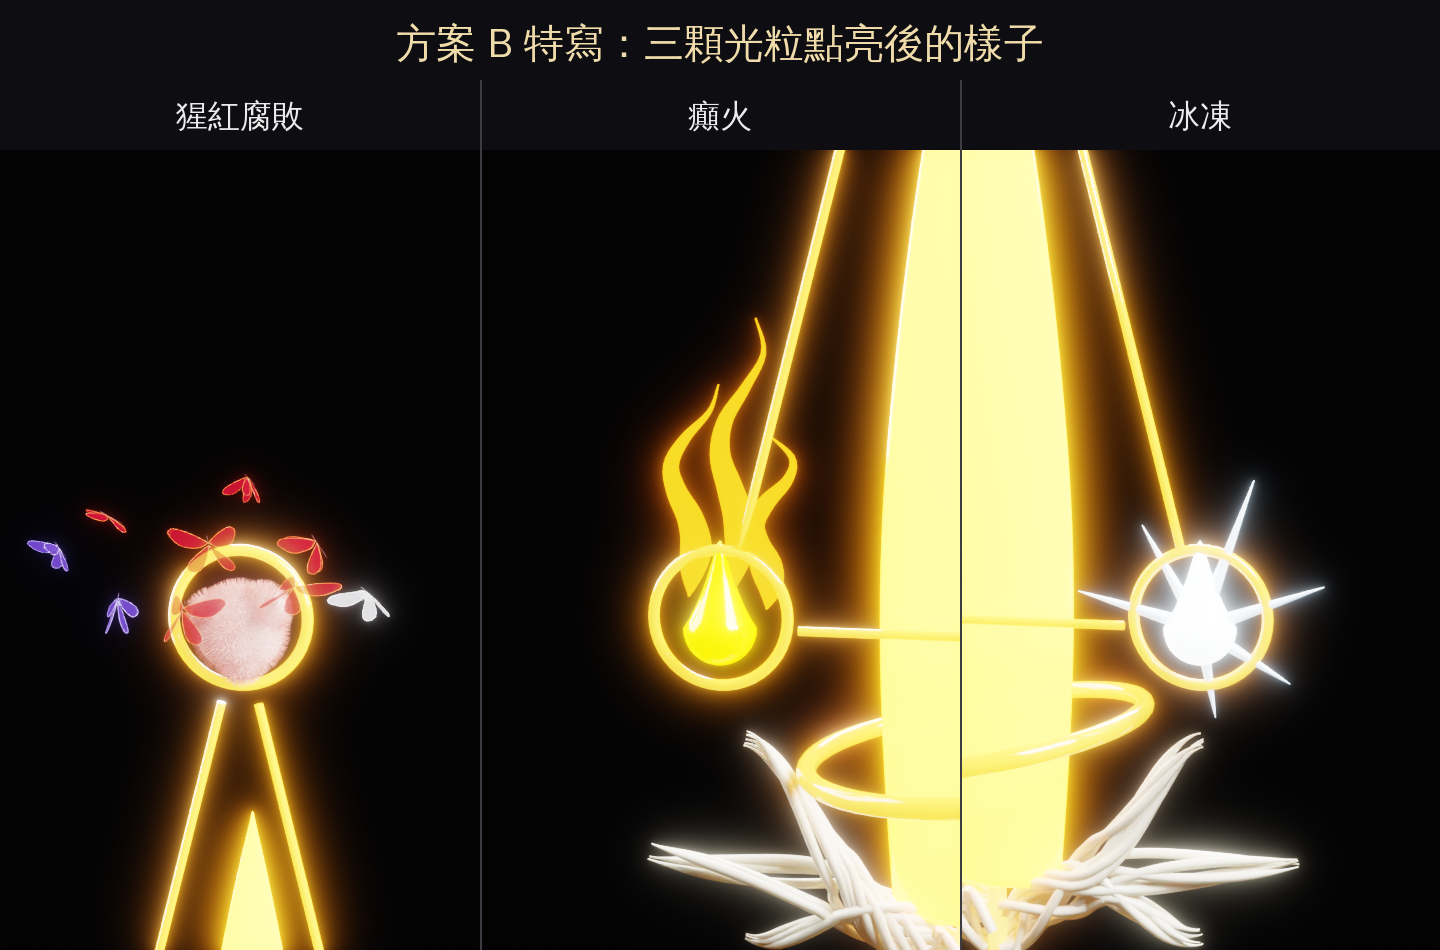
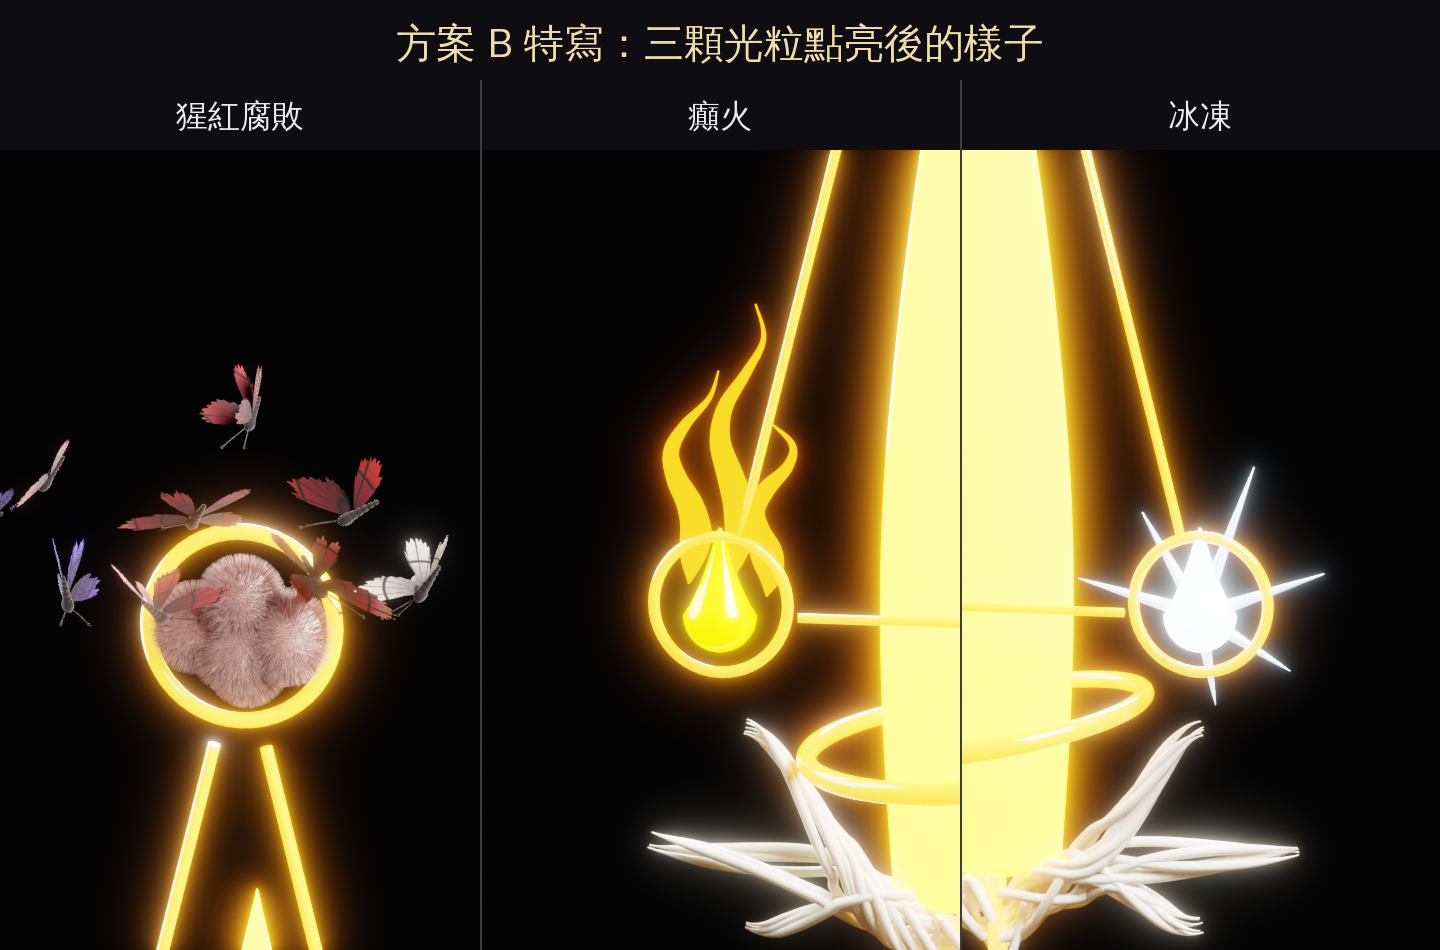
Insect glaive rot mote: realistic mould cluster with dense fuzz and real-looking rot butterflies
Claude-Session: https://claude.ai/code/session_01V7beVj5sW76yDfxRJh6Mw7

diff --git a/mods/miquella/prototypes/scripts/status_fx.py b/mods/miquella/prototypes/scripts/status_fx.py
@@ -115,8 +115,8 @@ def mould_material():
     bsdf.inputs["Sheen Roughness"].default_value = 0.3
     bsdf.inputs["Sheen Tint"].default_value = c.hex_to_linear("#FFE3E0")
     bsdf.inputs["Subsurface Weight"].default_value = 0.3
-    bsdf.inputs["Emission Color"].default_value = c.hex_to_linear("#FF3048")
-    bsdf.inputs["Emission Strength"].default_value = 0.25
+    # Realistic, not glowing (user's call): the texture matters more than the light here.
+    bsdf.inputs["Emission Strength"].default_value = 0.0
     noise = nodes.new("ShaderNodeTexNoise")
     noise.inputs["Scale"].default_value = 90.0
     noise.inputs["Detail"].default_value = 10.0
@@ -147,11 +147,40 @@ def mould_material():
     return mat
 
 
+def fuzz_material():
+    """The mould's fuzz: pale pink, whitening toward the tips."""
+    mat = bpy.data.materials.new("FX_mould_fuzz")
+    mat.use_nodes = True
+    nodes, links = mat.node_tree.nodes, mat.node_tree.links
+    bsdf = nodes["Principled BSDF"]
+    bsdf.inputs["Roughness"].default_value = 0.7
+    bsdf.inputs["Subsurface Weight"].default_value = 0.4
+    info = nodes.new("ShaderNodeHairInfo")
+    ramp = nodes.new("ShaderNodeValToRGB")
+    ramp.color_ramp.elements[0].color = c.hex_to_linear("#B8706A")
+    ramp.color_ramp.elements[1].color = c.hex_to_linear("#F2CFC8")
+    links.new(info.outputs["Intercept"], ramp.inputs["Fac"])
+    # Some strands brown and dead, in patches.
+    pick = nodes.new("ShaderNodeValToRGB")
+    pick.color_ramp.elements[0].position = 0.78
+    pick.color_ramp.elements[1].position = 0.8
+    links.new(info.outputs["Random"], pick.inputs["Fac"])
+    mix = nodes.new("ShaderNodeMix")
+    mix.data_type = "RGBA"
+    mix.inputs["B"].default_value = c.hex_to_linear("#5A2E26")
+    links.new(pick.outputs["Color"], mix.inputs["Factor"])
+    links.new(ramp.outputs["Color"], mix.inputs["A"])
+    links.new(mix.outputs["Result"], bsdf.inputs["Base Color"])
+    return mat
+
+
 def mould_ball(name, center, radius, mat):
-    """A lumpy ball: one main sphere with a few smaller ones grown onto it, all roughened."""
+    """A cluster of mouldy balls (like the rot-cure moss balls), each lumpy and fuzzy."""
     center = Vector(center)
     objs = []
-    lumps = [(V(0, 0, 0), 1.0), (V(0.55, -0.2, 0.45), 0.55), (V(-0.6, -0.15, 0.3), 0.5), (V(0.1, -0.3, -0.62), 0.48)]
+    lumps = [(V(0, 0, 0), 0.68), (V(0.78, -0.1, 0.12), 0.58), (V(-0.72, -0.05, 0.22), 0.56),
+             (V(0.08, -0.3, 0.72), 0.52), (V(0.05, 0.35, -0.45), 0.5)]
+    fuzz_mat = fuzz_material()
     tex = bpy.data.textures.new(f"{name}_Lumps", "CLOUDS")
     tex.noise_scale = 0.25
     for k, (off, scale) in enumerate(lumps):
@@ -164,15 +193,17 @@ def mould_ball(name, center, radius, mat):
         disp.strength = radius * 0.18
         disp.mid_level = 0.5
         ball.data.materials.append(mat)
+        ball.data.materials.append(fuzz_mat)
         bpy.ops.object.shade_smooth()
-        # Short fuzz all over, like mould.
+        # Dense fuzz all over, like mould.
         fuzz = ball.modifiers.new("fuzz", "PARTICLE_SYSTEM").particle_system.settings
         fuzz.type = "HAIR"
-        fuzz.count = int(3000 * scale)
-        fuzz.hair_length = radius * 0.16
+        fuzz.count = int(9000 * scale)
+        fuzz.hair_length = radius * 0.22
         fuzz.root_radius = 1.0
-        fuzz.tip_radius = 0.1
-        fuzz.radius_scale = radius * 0.012
+        fuzz.tip_radius = 0.05
+        fuzz.radius_scale = radius * 0.008
+        fuzz.material = 2
         fuzz.use_rotations = True
         fuzz.rotation_factor_random = 0.6
         objs.append(ball)
@@ -183,73 +214,175 @@ BUTTERFLY_FORE = [(0.0, 0.004), (0.03, 0.03), (0.07, 0.06), (0.11, 0.08), (0.13,
                   (0.1, 0.012), (0.07, -0.004), (0.03, -0.01)]
 BUTTERFLY_HIND = [(0.0, -0.006), (0.04, -0.03), (0.08, -0.06), (0.09, -0.085), (0.07, -0.1),
                   (0.04, -0.09), (0.015, -0.05)]
-BUTTERFLY_COLOURS = {"scarlet": ("#C8102E", "#FF6A2A"), "violet": ("#5A3CC8", "#B49CFF"),
-                     "white": ("#F2EEF8", "#FFFFFF")}
+# root (near the body), middle, outer, decayed edge band, vein colour
+BUTTERFLY_COLOURS = {
+    "scarlet": ("#120203", "#4E060E", "#9E1A12", "#C9786A", "#0A0202"),
+    "violet": ("#08040E", "#241448", "#4A3C9E", "#A898CC", "#050309"),
+    "white": ("#2A2424", "#9A948E", "#D8D2CA", "#E6E0D8", "#2A2222"),
+}
 
 
-def butterfly_materials():
-    """Wings dark and see-through toward the root, glowing toward the edge (like the rot
-    butterflies around Malenia's wings), with a brighter rim line."""
-    mats = {}
-    for key, (wing, edge) in BUTTERFLY_COLOURS.items():
-        w = bpy.data.materials.new(f"Fly_{key}")
-        w.use_nodes = True
-        nodes, links = w.node_tree.nodes, w.node_tree.links
-        for nd in list(nodes):
-            nodes.remove(nd)
-        out = nodes.new("ShaderNodeOutputMaterial")
-        mix = nodes.new("ShaderNodeMixShader")
-        mix.inputs["Fac"].default_value = 0.85
-        transparent = nodes.new("ShaderNodeBsdfTransparent")
-        emission = nodes.new("ShaderNodeEmission")
-        emission.inputs["Strength"].default_value = 1.4
-        coords = nodes.new("ShaderNodeTexCoord")
-        gradient = nodes.new("ShaderNodeTexGradient")
-        gradient.gradient_type = "SPHERICAL"
-        mapping = nodes.new("ShaderNodeMapping")
-        mapping.inputs["Scale"].default_value = (60, 60, 60)      # object space: wing ~1/60 m
-        ramp = nodes.new("ShaderNodeValToRGB")
-        ramp.color_ramp.elements[0].position = 0.0
-        ramp.color_ramp.elements[0].color = c.hex_to_linear(edge)
-        ramp.color_ramp.elements[1].position = 0.7
-        ramp.color_ramp.elements[1].color = c.hex_to_linear(wing)
-        links.new(coords.outputs["Object"], mapping.inputs["Vector"])
-        links.new(mapping.outputs["Vector"], gradient.inputs["Vector"])
-        links.new(gradient.outputs["Fac"], ramp.inputs["Fac"])
-        links.new(ramp.outputs["Color"], emission.inputs["Color"])
-        links.new(transparent.outputs["BSDF"], mix.inputs[1])
-        links.new(emission.outputs["Emission"], mix.inputs[2])
-        links.new(mix.outputs["Shader"], out.inputs["Surface"])
-        e = c.make_material(f"Fly_{key}_Edge", edge, roughness=0.3, emission=edge, strength=2.5)
-        body = c.make_material(f"Fly_{key}_Body", "#2A1014", roughness=0.6, emission=wing, strength=0.3)
-        mats[key] = (w, e, body)
-    return mats
+def wing_material(key, span):
+    """Real butterfly wing, not a sheet of light: dark at the body, scarlet outward, a pale
+    decayed band at the edge, dark veins radiating from the body and cross veins, mottled
+    dusty scales, a little translucency. Object space: the body is at the origin and the
+    wings lie roughly in the XY plane; `span` is the wing length."""
+    root, mid, outer, edge, vein = BUTTERFLY_COLOURS[key]
+    mat = bpy.data.materials.new(f"Wing_{key}")
+    mat.use_nodes = True
+    nodes, links = mat.node_tree.nodes, mat.node_tree.links
+    bsdf = nodes["Principled BSDF"]
+    bsdf.inputs["Roughness"].default_value = 0.8
+    bsdf.inputs["Sheen Weight"].default_value = 0.15         # a little dust on the scales
+    bsdf.inputs["Specular IOR Level"].default_value = 0.2
+    coords = nodes.new("ShaderNodeTexCoord")
+    xy = nodes.new("ShaderNodeVectorMath")
+    xy.operation = "MULTIPLY"
+    xy.inputs[1].default_value = (1 / span, 1 / span, 0)
+    links.new(coords.outputs["Object"], xy.inputs[0])
+    dist = nodes.new("ShaderNodeVectorMath")
+    dist.operation = "LENGTH"
+    links.new(xy.outputs["Vector"], dist.inputs[0])
+    # Mottling: shift the distance a little with noise so the bands are not clean.
+    noise = nodes.new("ShaderNodeTexNoise")
+    noise.inputs["Scale"].default_value = 18.0
+    noise.inputs["Detail"].default_value = 6.0
+    links.new(xy.outputs["Vector"], noise.inputs["Vector"])
+    wobble = nodes.new("ShaderNodeMath")
+    wobble.operation = "MULTIPLY_ADD"
+    wobble.inputs[1].default_value = 0.25
+    links.new(noise.outputs["Fac"], wobble.inputs[0])
+    links.new(dist.outputs["Value"], wobble.inputs[2])
+    tone = nodes.new("ShaderNodeValToRGB")
+    els = tone.color_ramp.elements
+    els[0].position, els[0].color = 0.1, c.hex_to_linear(root)
+    els[1].position, els[1].color = 1.05, c.hex_to_linear(edge)
+    e = els.new(0.45)
+    e.color = c.hex_to_linear(mid)
+    e = els.new(0.85)
+    e.color = c.hex_to_linear(outer)
+    links.new(wobble.outputs["Value"], tone.inputs["Fac"])
+    # Veins: thin dark lines radiating from the body, plus a few cross veins.
+    radial = nodes.new("ShaderNodeTexGradient")
+    radial.gradient_type = "RADIAL"
+    links.new(coords.outputs["Object"], radial.inputs["Vector"])
+    spokes = nodes.new("ShaderNodeMath")
+    spokes.operation = "MULTIPLY"
+    spokes.inputs[1].default_value = 2 * math.pi * 26
+    links.new(radial.outputs["Fac"], spokes.inputs[0])
+    wave = nodes.new("ShaderNodeMath")
+    wave.operation = "SINE"
+    links.new(spokes.outputs["Value"], wave.inputs[0])
+    rings = nodes.new("ShaderNodeMath")
+    rings.operation = "MULTIPLY"
+    rings.inputs[1].default_value = 2 * math.pi * 3.2
+    links.new(dist.outputs["Value"], rings.inputs[0])
+    wave2 = nodes.new("ShaderNodeMath")
+    wave2.operation = "SINE"
+    links.new(rings.outputs["Value"], wave2.inputs[0])
+    both = nodes.new("ShaderNodeMath")
+    both.operation = "MAXIMUM"
+    links.new(wave.outputs["Value"], both.inputs[0])
+    links.new(wave2.outputs["Value"], both.inputs[1])
+    lines = nodes.new("ShaderNodeValToRGB")
+    lines.color_ramp.elements[0].position = 0.9
+    lines.color_ramp.elements[0].color = (0, 0, 0, 1)
+    lines.color_ramp.elements[1].position = 0.985
+    lines.color_ramp.elements[1].color = (1, 1, 1, 1)
+    links.new(both.outputs["Value"], lines.inputs["Fac"])
+    mix = nodes.new("ShaderNodeMix")
+    mix.data_type = "RGBA"
+    mix.inputs["B"].default_value = c.hex_to_linear(vein)
+    links.new(lines.outputs["Color"], mix.inputs["Factor"])
+    links.new(tone.outputs["Color"], mix.inputs["A"])
+    links.new(mix.outputs["Result"], bsdf.inputs["Base Color"])
+    # Only a trace of light, so they still read in the dark.
+    links.new(mix.outputs["Result"], bsdf.inputs["Emission Color"])
+    bsdf.inputs["Emission Strength"].default_value = 0.12
+    return mat
 
 
-def butterfly(name, center, size, yaw_deg, open_deg, pitch_deg, mats):
-    """A tiny butterfly; size is the wing length, open_deg how far the wings are raised
-    (0 = flat, 80 = nearly closed), yaw/pitch its heading."""
-    wing_mat, edge_mat, body_mat = mats
-    center = Vector(center)
+def body_material():
+    mat = c.make_material("Fly_Body", "#140806", roughness=0.9)
+    bsdf = mat.node_tree.nodes["Principled BSDF"]
+    bsdf.inputs["Sheen Weight"].default_value = 0.25
+    bsdf.inputs["Specular IOR Level"].default_value = 0.2
+    return mat
+
+
+def butterfly_materials(span=0.02):
+    body = body_material()
+    return {key: (wing_material(key, span), body) for key in BUTTERFLY_COLOURS}
+
+
+def ragged(outline, rng, notches=2):
+    """Tattered wing edge: the outline wobbles and has a couple of bites taken out."""
+    pts = m.catmull([V(x, z, 0) for x, z in outline] + [V(outline[0][0], outline[0][1], 0)], 70)[:-1]
+    bites = [rng.randrange(10, len(pts) - 10) for _ in range(notches)]
+    out = []
+    for i, p in enumerate(pts):
+        f = 1.0 + 0.05 * math.sin(i * 1.7 + rng.random()) * (p.length > 0.03)
+        for b in bites:
+            d = abs(i - b)
+            if d < 4:
+                f *= 1 - 0.18 * (1 - d / 4)
+        out.append(p * f)
+    return out
+
+
+def butterfly(name, center, size, yaw_deg, open_deg, pitch_deg, mats, seed=0):
+    """A small, realistic butterfly: one object with four ragged wings around the body at
+    its origin (so the wing pattern is centred on the body), a segmented fuzzy body and two
+    thin antennae with clubbed tips. size: wing length; open_deg: how far the wings are
+    raised; yaw/pitch: heading."""
+    import bmesh
+    import random
+    rng = random.Random(seed)
+    wing_mat, body_mat = mats
     k = size / 0.13
-    yaw, pitch, lift = math.radians(yaw_deg), math.radians(pitch_deg), math.radians(open_deg)
-    rot = mathutils_matrix(yaw, pitch)
-    objs = []
+    lift = math.radians(open_deg)
+    bm = bmesh.new()
     for s in (-1, 1):
-        for wname, outline in (("Fore", BUTTERFLY_FORE), ("Hind", BUTTERFLY_HIND)):
-            loop = m.catmull([V(x, z, 0) for x, z in outline] + [V(outline[0][0], outline[0][1], 0)], 40)
-            pts = [center + rot @ V(s * p.x * k * math.cos(lift), p.x * k * math.sin(lift), p.y * k) for p in loop]
-            objs += m.flat_fill(f"{name}_{wname}_{s}", pts[:-1], wing_mat, center_origin=True)
-            objs.append(c.curve_tube(f"{name}_{wname}_Edge_{s}", pts, [1.0] * len(pts), edge_mat,
-                                     bevel=0.00035 * k, resolution=1))
-    body = [center + rot @ V(0, 0, z * k) for z in (0.03, -0.075)]
-    objs.append(c.curve_tube(f"{name}_Body", body, [1.0, 0.5], body_mat, bevel=0.0012 * k, resolution=2))
+        for outline in (BUTTERFLY_FORE, BUTTERFLY_HIND):
+            loop = ragged(outline, rng)
+            verts = [bm.verts.new(V(s * p.x * k * math.cos(lift), p.y * k, p.x * k * math.sin(lift))) for p in loop]
+            edges = [bm.edges.new((verts[i], verts[(i + 1) % len(verts)])) for i in range(len(verts))]
+            bmesh.ops.triangle_fill(bm, use_beauty=True, use_dissolve=False, edges=edges)
+    mesh = bpy.data.meshes.new(name)
+    bm.to_mesh(mesh)
+    bm.free()
+    obj = c.link(bpy.data.objects.new(name, mesh))
+    obj.data.materials.append(wing_mat)
+    obj.location = Vector(center)
+    obj.rotation_euler = (math.radians(pitch_deg), 0, math.radians(yaw_deg))
+    objs = [obj]
+    # Body: thorax and a tapering abdomen of small segments, then antennae.
+    parts = [(0.012, 0.016), (-0.004, 0.012), (-0.018, 0.0105), (-0.032, 0.009), (-0.046, 0.0075), (-0.058, 0.006)]
+    for j, (y, r) in enumerate(parts):
+        bpy.ops.mesh.primitive_uv_sphere_add(radius=r * k, segments=12, ring_count=8, location=(0, y * k, 0))
+        seg = bpy.context.active_object
+        seg.name = f"{name}_Body_{j}"
+        seg.scale = (0.8, 1.3, 0.8)
+        seg.data.materials.append(body_mat)
+        seg.parent = obj
+        seg.matrix_parent_inverse.identity()
+        objs.append(seg)
+    for s in (-1, 1):
+        ant = [V(s * 0.004 * k, 0.026 * k, 0.004 * k), V(s * 0.02 * k, 0.07 * k, 0.02 * k),
+               V(s * 0.03 * k, 0.1 * k, 0.03 * k)]
+        a = c.curve_tube(f"{name}_Antenna_{s}", m.catmull(ant, 16), [1.0] * 16, body_mat, bevel=0.0012 * k,
+                         resolution=1)
+        a.parent = obj
+        a.matrix_parent_inverse.identity()
+        objs.append(a)
+        bpy.ops.mesh.primitive_uv_sphere_add(radius=0.0035 * k, segments=8, ring_count=6, location=ant[-1])
+        club = bpy.context.active_object
+        club.name = f"{name}_Club_{s}"
+        club.data.materials.append(body_mat)
+        club.parent = obj
+        club.matrix_parent_inverse.identity()
+        objs.append(club)
     return objs
-
-
-def mathutils_matrix(yaw, pitch):
-    from mathutils import Matrix
-    return Matrix.Rotation(yaw, 3, "Z") @ Matrix.Rotation(pitch, 3, "X")
 
 
 def rot_mote(prefix, center, radius, count=9, spread=0.075):
@@ -264,6 +397,6 @@ def rot_mote(prefix, center, radius, count=9, spread=0.075):
         a = math.radians(40 + 75 * i)
         pos = center + V(math.cos(a) * spread * (0.35 + 0.65 * t), -0.02 - 0.03 * t * math.sin(a) ** 2,
                          0.004 + 0.045 * t + 0.012 * math.sin(3 * a))
-        objs += butterfly(f"{prefix}_Fly_{i}", pos, 0.016 * (1.0 - 0.4 * t), 25 * i - 40, 15 + 50 * (i % 3) / 2,
-                          -60 + 25 * (i % 2), fly_mats[colours[i % len(colours)]])
+        objs += butterfly(f"{prefix}_Fly_{i}", pos, 0.019 * (1.0 - 0.35 * t), 25 * i - 40, 10 + 30 * (i % 3),
+                          -55 + 25 * (i % 2), fly_mats[colours[i % len(colours)]], seed=i)
     return objs

diff --git a/mods/miquella/prototypes/scripts/states.py b/mods/miquella/prototypes/scripts/states.py
@@ -653,8 +653,8 @@ def insect_glaive_extracts():
         if layout == "B":
             # Close-ups of each lit mote (the last state has all three lit).
             close = []
-            for kind, label in (("rot", "猩紅腐敗"), ("flame", "癲火"), ("frost", "冰凍")):
-                close += c.render_views(OUT, f"B_close_{kind}", motes[kind] + V(0, 0, 0.03), 0.42,
+            for kind, dist in (("rot", 0.3), ("flame", 0.42), ("frost", 0.42)):
+                close += c.render_views(OUT, f"B_close_{kind}", motes[kind] + V(0, 0, 0.025), dist,
                                         [("front", 12, 6)], lens=50)
             labelled_strip(close, ["猩紅腐敗", "癲火", "冰凍"], os.path.join(OUT, "insect_glaive_extracts_B_close.png"),
                            "方案 B 特寫：三顆光粒點亮後的樣子")
